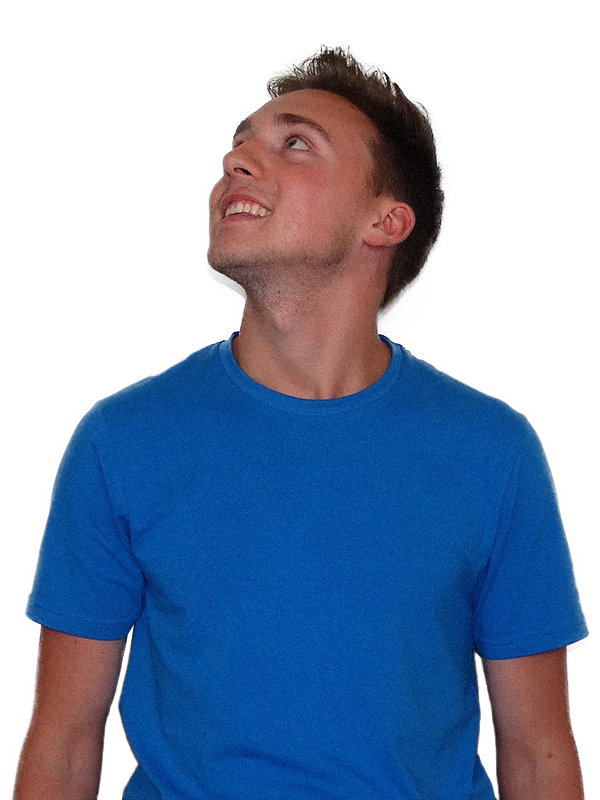
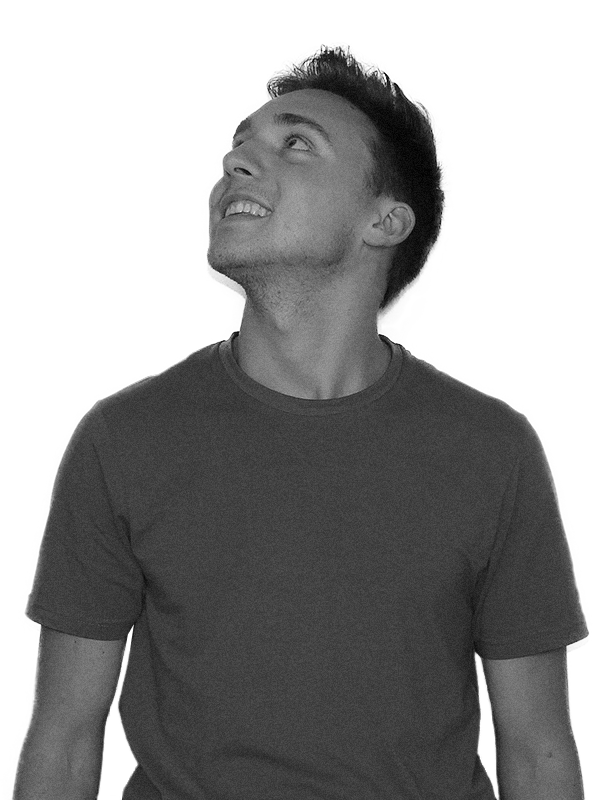
Change headshots to black and white

diff --git a/pages/index.vue b/pages/index.vue
@@ -138,7 +138,7 @@ export default {
 
 .headshots {
   bottom: calc(-2vh - 3vw);
-  filter: saturate(0) sepia(1) hue-rotate(170deg) saturate(2);
+  filter: sepia(1) hue-rotate(170deg) saturate(2);
   height: calc(20vh + 30vw);
   position: absolute;
   right: -5vw;
